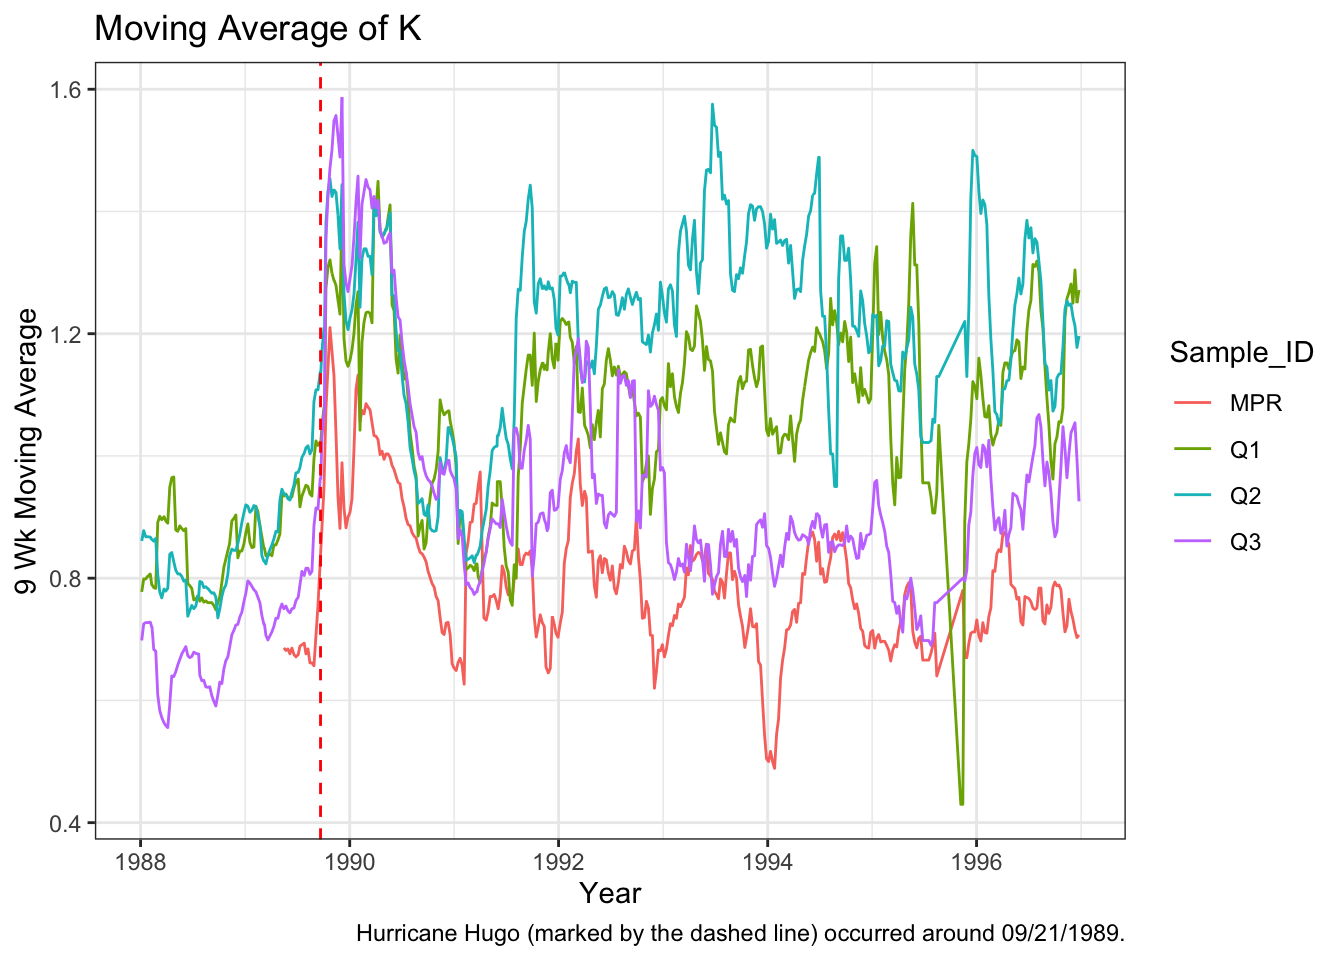
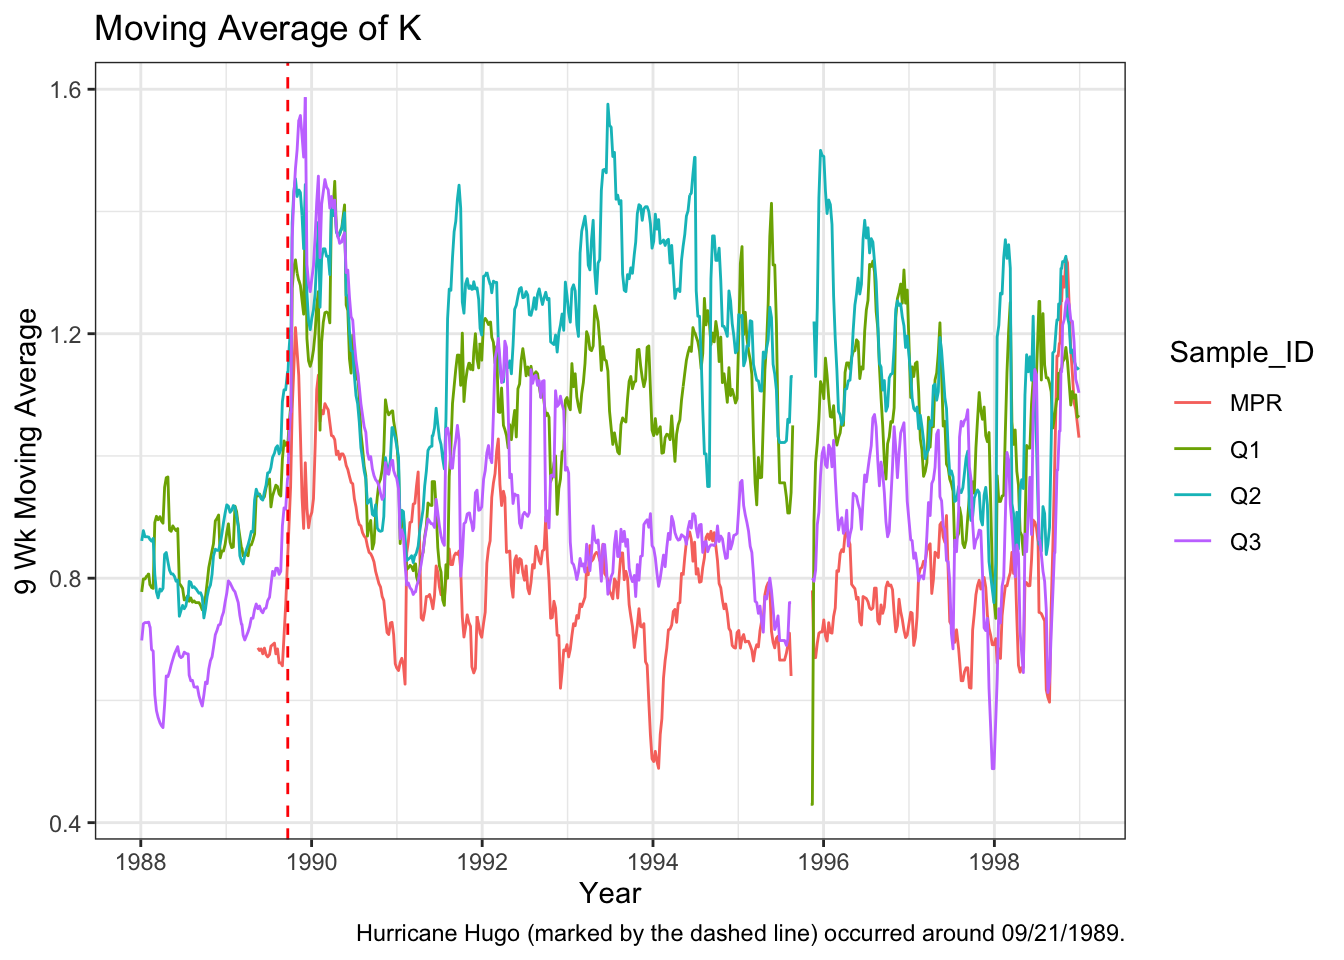
updates before jay merge

diff --git a/docs/index.html b/docs/index.html
@@ -102,7 +102,8 @@ pre > code.sourceCode > span > a:first-child::before { text-decoration: underlin
 <h1>Data</h1>
 <p>The data is publicly available on the EDI Data Portal and appears as separate files for each sampling site. For this analysis, the “QuebradaCuenca1-Bisley”, “QuebradaCuenca2-Bisley”, “QuebradaCuenca3-Bisley”, and “RioMameyesPuenteRoto.csv” were downloaded for the Q1, Q2, Q3, and RMP sample sites. Each file was read in from the data folder and were fully joined to create a single unique dataset called “qb_pmr.”</p>
 <div class="cell">
-<div class="sourceCode cell-code" id="cb1"><pre class="sourceCode r code-with-copy"><code class="sourceCode r"><span id="cb1-1"><a href="#cb1-1" aria-hidden="true" tabindex="-1"></a><span class="fu">library</span>(tidyverse)</span></code><button title="Copy to Clipboard" class="code-copy-button"><i class="bi"></i></button></pre></div>
+<div class="sourceCode cell-code" id="cb1"><pre class="sourceCode r code-with-copy"><code class="sourceCode r"><span id="cb1-1"><a href="#cb1-1" aria-hidden="true" tabindex="-1"></a><span class="co"># | warning: false</span></span>
+<span id="cb1-2"><a href="#cb1-2" aria-hidden="true" tabindex="-1"></a><span class="fu">library</span>(tidyverse)</span></code><button title="Copy to Clipboard" class="code-copy-button"><i class="bi"></i></button></pre></div>
 <div class="cell-output cell-output-stderr">
 <pre><code>── Attaching core tidyverse packages ──────────────────────── tidyverse 2.0.0 ──
 ✔ dplyr     1.1.4     ✔ readr     2.1.5
@@ -373,8 +374,8 @@ TDNCode, SiO2Code, DONCode, TSS, Turbidity)`</code></pre>
 <span id="cb29-7"><a href="#cb29-7" aria-hidden="true" tabindex="-1"></a><span class="cf">for</span> (i <span class="cf">in</span> nutrient_list) {</span>
 <span id="cb29-8"><a href="#cb29-8" aria-hidden="true" tabindex="-1"></a>  <span class="co"># i is not a position but a "type" of nutrient</span></span>
 <span id="cb29-9"><a href="#cb29-9" aria-hidden="true" tabindex="-1"></a>  plot_store <span class="ot">&lt;-</span> qb_pmr_ma <span class="sc">%&gt;%</span> <span class="fu">mutate</span>(<span class="at">year_sample =</span> <span class="fu">year</span>(Sample_Date)) <span class="sc">%&gt;%</span></span>
-<span id="cb29-10"><a href="#cb29-10" aria-hidden="true" tabindex="-1"></a>    <span class="fu">filter</span>(nutrients <span class="sc">==</span> i, year_sample <span class="sc">&gt;=</span> <span class="dv">1988</span> <span class="sc">&amp;</span> year_sample <span class="sc">&lt;=</span> <span class="dv">1996</span>) <span class="sc">%&gt;%</span></span>
-<span id="cb29-11"><a href="#cb29-11" aria-hidden="true" tabindex="-1"></a>    <span class="fu">drop_na</span>(moving_avg_nutrients) <span class="sc">%&gt;%</span> </span>
+<span id="cb29-10"><a href="#cb29-10" aria-hidden="true" tabindex="-1"></a>    <span class="fu">filter</span>(nutrients <span class="sc">==</span> i, year_sample <span class="sc">&gt;=</span> <span class="dv">1988</span> <span class="sc">&amp;</span> year_sample <span class="sc">&lt;=</span> <span class="dv">1998</span>) <span class="sc">%&gt;%</span></span>
+<span id="cb29-11"><a href="#cb29-11" aria-hidden="true" tabindex="-1"></a>    <span class="co">#drop_na(moving_avg_nutrients) %&gt;% </span></span>
 <span id="cb29-12"><a href="#cb29-12" aria-hidden="true" tabindex="-1"></a>    <span class="fu">ggplot</span>(<span class="fu">aes</span>(<span class="at">x =</span> Sample_Date, <span class="at">y =</span> moving_avg_nutrients, <span class="at">col =</span> Sample_ID, <span class="at">group =</span> Sample_ID)) <span class="sc">+</span></span>
 <span id="cb29-13"><a href="#cb29-13" aria-hidden="true" tabindex="-1"></a>    <span class="fu">geom_line</span>() <span class="sc">+</span></span>
 <span id="cb29-14"><a href="#cb29-14" aria-hidden="true" tabindex="-1"></a>    <span class="fu">labs</span>(<span class="at">title =</span> <span class="fu">paste</span>(<span class="st">"Moving Average of"</span>, i),</span>
@@ -383,40 +384,63 @@ TDNCode, SiO2Code, DONCode, TSS, Turbidity)`</code></pre>
 <span id="cb29-17"><a href="#cb29-17" aria-hidden="true" tabindex="-1"></a>    <span class="fu">theme_bw</span>() <span class="sc">+</span> <span class="fu">geom_vline</span>(<span class="at">xintercept =</span> hugo, <span class="at">linetype =</span> <span class="st">"dashed"</span>, <span class="at">col =</span> <span class="st">"red"</span>) </span>
 <span id="cb29-18"><a href="#cb29-18" aria-hidden="true" tabindex="-1"></a> </span>
 <span id="cb29-19"><a href="#cb29-19" aria-hidden="true" tabindex="-1"></a>   <span class="fu">print</span>(plot_store) </span>
-<span id="cb29-20"><a href="#cb29-20" aria-hidden="true" tabindex="-1"></a>  <span class="co"># ggsave(filename = paste0("plot ", i, ".png"), path = here::here("figs"), plot = plot_store)</span></span>
+<span id="cb29-20"><a href="#cb29-20" aria-hidden="true" tabindex="-1"></a>  <span class="fu">ggsave</span>(<span class="at">filename =</span> <span class="fu">paste0</span>(<span class="st">"plot "</span>, i, <span class="st">".png"</span>), <span class="at">path =</span> here<span class="sc">::</span><span class="fu">here</span>(<span class="st">"figs"</span>), <span class="at">plot =</span> plot_store)</span>
 <span id="cb29-21"><a href="#cb29-21" aria-hidden="true" tabindex="-1"></a>}</span></code><button title="Copy to Clipboard" class="code-copy-button"><i class="bi"></i></button></pre></div>
 <div class="cell-output-display">
 <p><img src="paper_files/figure-html/unnamed-chunk-5-1.png" class="img-fluid" width="672"></p>
 </div>
+<div class="cell-output cell-output-stderr">
+<pre><code>Saving 7 x 5 in image</code></pre>
+</div>
 <div class="cell-output-display">
 <p><img src="paper_files/figure-html/unnamed-chunk-5-2.png" class="img-fluid" width="672"></p>
+</div>
+<div class="cell-output cell-output-stderr">
+<pre><code>Saving 7 x 5 in image</code></pre>
 </div>
 <div class="cell-output-display">
 <p><img src="paper_files/figure-html/unnamed-chunk-5-3.png" class="img-fluid" width="672"></p>
 </div>
+<div class="cell-output cell-output-stderr">
+<pre><code>Saving 7 x 5 in image</code></pre>
+</div>
 <div class="cell-output-display">
 <p><img src="paper_files/figure-html/unnamed-chunk-5-4.png" class="img-fluid" width="672"></p>
+</div>
+<div class="cell-output cell-output-stderr">
+<pre><code>Saving 7 x 5 in image</code></pre>
+</div>
+<div class="cell-output cell-output-stderr">
+<pre><code>Warning: Removed 426 rows containing missing values or values outside the scale range
+(`geom_line()`).</code></pre>
 </div>
 <div class="cell-output-display">
 <p><img src="paper_files/figure-html/unnamed-chunk-5-5.png" class="img-fluid" width="672"></p>
 </div>
-<div class="sourceCode cell-code" id="cb30"><pre class="sourceCode r code-with-copy"><code class="sourceCode r"><span id="cb30-1"><a href="#cb30-1" aria-hidden="true" tabindex="-1"></a><span class="co"># # create subset to see where most nans are</span></span>
-<span id="cb30-2"><a href="#cb30-2" aria-hidden="true" tabindex="-1"></a> <span class="co"># qb_pmr_ma %&gt;% filter(moving_avg_nutrients != is.nan(qb_pmr_ma$moving_avg_nutrients), nutrients == "NH4-N") %&gt;% #drop_na(moving_avg_nutrients) %&gt;%</span></span>
-<span id="cb30-3"><a href="#cb30-3" aria-hidden="true" tabindex="-1"></a> <span class="co">#    ggplot(aes(x = Sample_Date, y = moving_avg_nutrients, col = Sample_ID, group = Sample_ID)) +</span></span>
-<span id="cb30-4"><a href="#cb30-4" aria-hidden="true" tabindex="-1"></a> <span class="co">#    geom_line() +</span></span>
-<span id="cb30-5"><a href="#cb30-5" aria-hidden="true" tabindex="-1"></a> <span class="co">#    # labs(title = paste("Moving Average of", i),</span></span>
-<span id="cb30-6"><a href="#cb30-6" aria-hidden="true" tabindex="-1"></a> <span class="co">#    #      y = "9 Wk Moving Average",</span></span>
-<span id="cb30-7"><a href="#cb30-7" aria-hidden="true" tabindex="-1"></a> <span class="co">#    #      x = "Year", caption = "Hurricane Hugo (marked by the dashed line) occurred around 09/21/1989.") +</span></span>
-<span id="cb30-8"><a href="#cb30-8" aria-hidden="true" tabindex="-1"></a> <span class="co">#    theme_bw() + geom_vline(xintercept = hugo, linetype = "dashed", col = "red")</span></span>
-<span id="cb30-9"><a href="#cb30-9" aria-hidden="true" tabindex="-1"></a> </span>
-<span id="cb30-10"><a href="#cb30-10" aria-hidden="true" tabindex="-1"></a>qb_pmr_ma <span class="sc">%&gt;%</span> <span class="fu">mutate</span>(<span class="at">year_sample =</span> <span class="fu">year</span>(Sample_Date)) <span class="sc">%&gt;%</span></span>
-<span id="cb30-11"><a href="#cb30-11" aria-hidden="true" tabindex="-1"></a>    <span class="fu">filter</span>(year_sample <span class="sc">&gt;=</span> <span class="dv">1988</span> <span class="sc">&amp;</span> year_sample <span class="sc">&lt;=</span> <span class="dv">1998</span>) <span class="sc">%&gt;%</span></span>
-<span id="cb30-12"><a href="#cb30-12" aria-hidden="true" tabindex="-1"></a>    <span class="fu">drop_na</span>(moving_avg_nutrients) <span class="sc">%&gt;%</span>  </span>
-<span id="cb30-13"><a href="#cb30-13" aria-hidden="true" tabindex="-1"></a>    <span class="fu">ggplot</span>(<span class="fu">aes</span>(<span class="at">x =</span> Sample_Date, <span class="at">y =</span> moving_avg_nutrients, <span class="at">col =</span> Sample_ID, <span class="at">group =</span> Sample_ID)) <span class="sc">+</span></span>
-<span id="cb30-14"><a href="#cb30-14" aria-hidden="true" tabindex="-1"></a>    <span class="fu">geom_line</span>() <span class="sc">+</span> <span class="fu">theme_bw</span>() <span class="sc">+</span> </span>
-<span id="cb30-15"><a href="#cb30-15" aria-hidden="true" tabindex="-1"></a>    <span class="fu">labs</span>(<span class="at">title =</span> <span class="st">"Nine Week Moving Averages of Nutrients/Contaminants (1988-1998)"</span>,</span>
-<span id="cb30-16"><a href="#cb30-16" aria-hidden="true" tabindex="-1"></a>         <span class="at">y =</span> <span class="st">"Moving Average (nine weeks)"</span>,</span>
-<span id="cb30-17"><a href="#cb30-17" aria-hidden="true" tabindex="-1"></a>         <span class="at">x =</span> <span class="st">"Year"</span>, <span class="at">caption =</span> <span class="st">"Hurricane Hugo (marked by the dashed line) occurred around 09/21/1989."</span>) <span class="sc">+</span> <span class="fu">facet_wrap</span>(<span class="sc">~</span><span class="fu">factor</span>(nutrients), <span class="at">scales =</span> <span class="st">"free_y"</span>) <span class="sc">+</span> <span class="fu">geom_vline</span>(<span class="at">xintercept =</span> hugo, <span class="at">linetype =</span> <span class="st">"dashed"</span>, <span class="at">col =</span> <span class="st">"red"</span>) </span></code><button title="Copy to Clipboard" class="code-copy-button"><i class="bi"></i></button></pre></div>
+<div class="cell-output cell-output-stderr">
+<pre><code>Saving 7 x 5 in image</code></pre>
+</div>
+<div class="cell-output cell-output-stderr">
+<pre><code>Warning: Removed 426 rows containing missing values or values outside the scale range
+(`geom_line()`).</code></pre>
+</div>
+<div class="sourceCode cell-code" id="cb37"><pre class="sourceCode r code-with-copy"><code class="sourceCode r"><span id="cb37-1"><a href="#cb37-1" aria-hidden="true" tabindex="-1"></a><span class="co"># # create subset to see where most nans are</span></span>
+<span id="cb37-2"><a href="#cb37-2" aria-hidden="true" tabindex="-1"></a> <span class="co"># qb_pmr_ma %&gt;% filter(moving_avg_nutrients != is.nan(qb_pmr_ma$moving_avg_nutrients), nutrients == "NH4-N") %&gt;% #drop_na(moving_avg_nutrients) %&gt;%</span></span>
+<span id="cb37-3"><a href="#cb37-3" aria-hidden="true" tabindex="-1"></a> <span class="co">#    ggplot(aes(x = Sample_Date, y = moving_avg_nutrients, col = Sample_ID, group = Sample_ID)) +</span></span>
+<span id="cb37-4"><a href="#cb37-4" aria-hidden="true" tabindex="-1"></a> <span class="co">#    geom_line() +</span></span>
+<span id="cb37-5"><a href="#cb37-5" aria-hidden="true" tabindex="-1"></a> <span class="co">#    # labs(title = paste("Moving Average of", i),</span></span>
+<span id="cb37-6"><a href="#cb37-6" aria-hidden="true" tabindex="-1"></a> <span class="co">#    #      y = "9 Wk Moving Average",</span></span>
+<span id="cb37-7"><a href="#cb37-7" aria-hidden="true" tabindex="-1"></a> <span class="co">#    #      x = "Year", caption = "Hurricane Hugo (marked by the dashed line) occurred around 09/21/1989.") +</span></span>
+<span id="cb37-8"><a href="#cb37-8" aria-hidden="true" tabindex="-1"></a> <span class="co">#    theme_bw() + geom_vline(xintercept = hugo, linetype = "dashed", col = "red")</span></span>
+<span id="cb37-9"><a href="#cb37-9" aria-hidden="true" tabindex="-1"></a> </span>
+<span id="cb37-10"><a href="#cb37-10" aria-hidden="true" tabindex="-1"></a>qb_pmr_ma <span class="sc">%&gt;%</span> <span class="fu">mutate</span>(<span class="at">year_sample =</span> <span class="fu">year</span>(Sample_Date)) <span class="sc">%&gt;%</span></span>
+<span id="cb37-11"><a href="#cb37-11" aria-hidden="true" tabindex="-1"></a>    <span class="fu">filter</span>(year_sample <span class="sc">&gt;=</span> <span class="dv">1988</span> <span class="sc">&amp;</span> year_sample <span class="sc">&lt;=</span> <span class="dv">1998</span>) <span class="sc">%&gt;%</span></span>
+<span id="cb37-12"><a href="#cb37-12" aria-hidden="true" tabindex="-1"></a>   <span class="co"># drop_na(moving_avg_nutrients) %&gt;%  </span></span>
+<span id="cb37-13"><a href="#cb37-13" aria-hidden="true" tabindex="-1"></a>    <span class="fu">ggplot</span>(<span class="fu">aes</span>(<span class="at">x =</span> Sample_Date, <span class="at">y =</span> moving_avg_nutrients, <span class="at">col =</span> Sample_ID, <span class="at">group =</span> Sample_ID)) <span class="sc">+</span></span>
+<span id="cb37-14"><a href="#cb37-14" aria-hidden="true" tabindex="-1"></a>    <span class="fu">geom_line</span>() <span class="sc">+</span> <span class="fu">theme_bw</span>() <span class="sc">+</span> </span>
+<span id="cb37-15"><a href="#cb37-15" aria-hidden="true" tabindex="-1"></a>    <span class="fu">labs</span>(<span class="at">title =</span> <span class="st">"Nine Week Moving Averages of Nutrients/Contaminants (1988-1998)"</span>,</span>
+<span id="cb37-16"><a href="#cb37-16" aria-hidden="true" tabindex="-1"></a>         <span class="at">y =</span> <span class="st">"Moving Average (nine weeks)"</span>,</span>
+<span id="cb37-17"><a href="#cb37-17" aria-hidden="true" tabindex="-1"></a>         <span class="at">x =</span> <span class="st">"Year"</span>, <span class="at">caption =</span> <span class="st">"Hurricane Hugo (marked by the dashed line) occurred around 09/21/1989."</span>) <span class="sc">+</span> <span class="fu">facet_wrap</span>(<span class="sc">~</span><span class="fu">factor</span>(nutrients), <span class="at">scales =</span> <span class="st">"free_y"</span>) <span class="sc">+</span> <span class="fu">geom_vline</span>(<span class="at">xintercept =</span> hugo, <span class="at">linetype =</span> <span class="st">"dashed"</span>, <span class="at">col =</span> <span class="st">"red"</span>) </span></code><button title="Copy to Clipboard" class="code-copy-button"><i class="bi"></i></button></pre></div>
 <div class="cell-output-display">
 <p><img src="paper_files/figure-html/unnamed-chunk-5-6.png" class="img-fluid" width="672"></p>
 </div>
